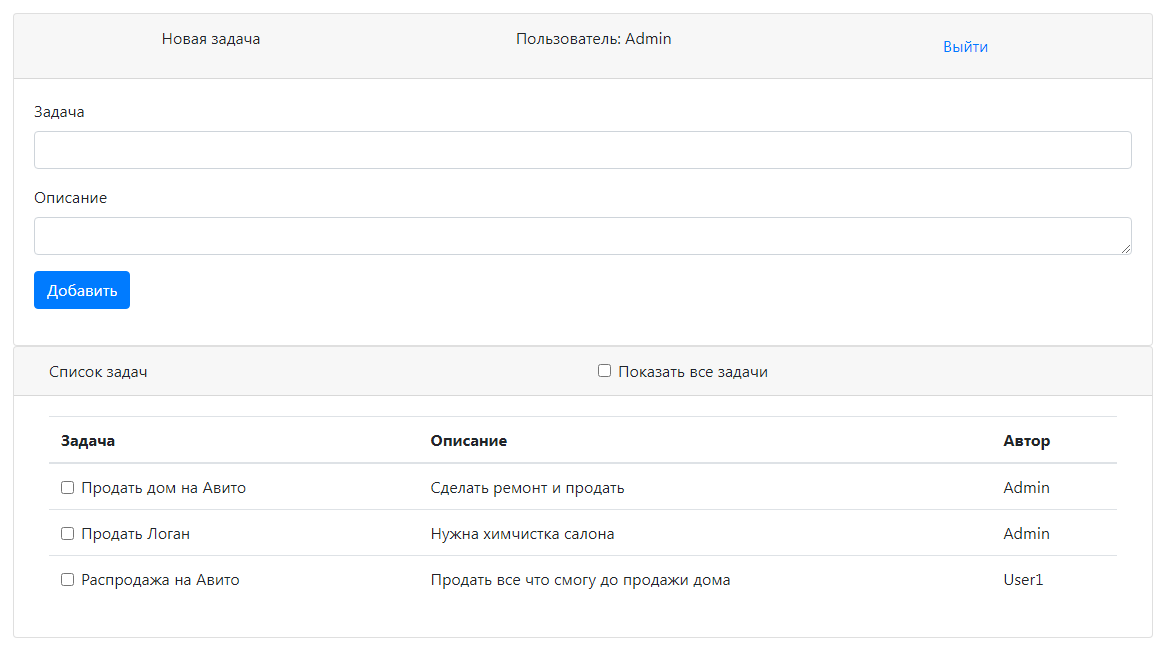
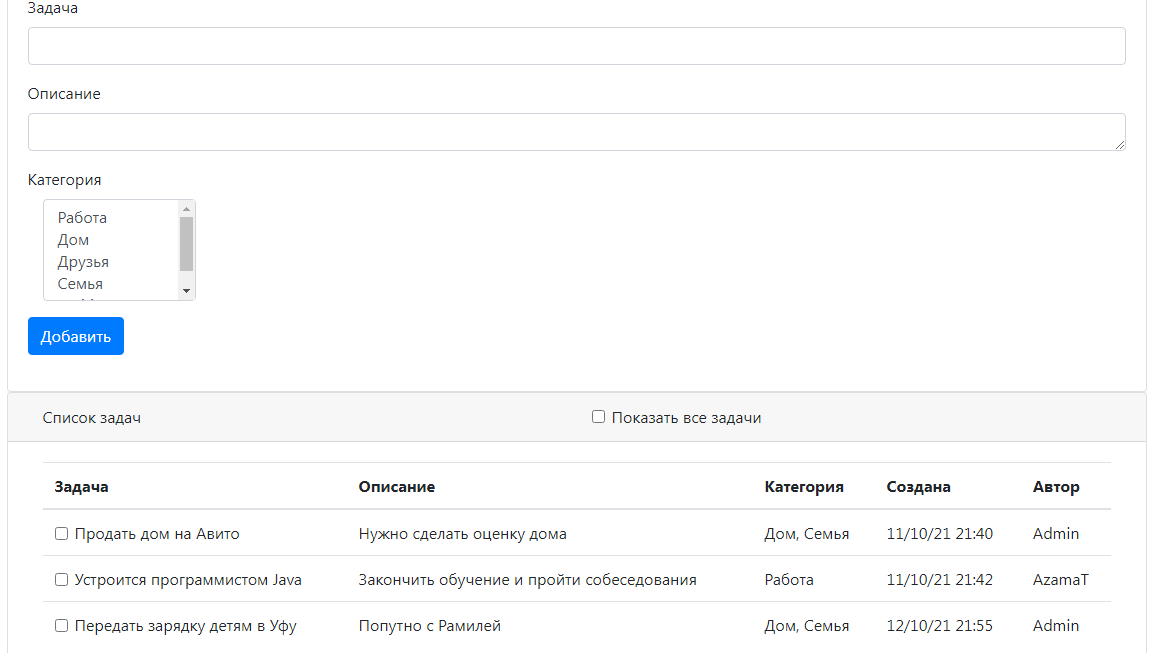
4. Категории в TODO List [#331991 #214812]

diff --git a/src/main/webapp/js/addTask.js b/src/main/webapp/js/addTask.js
@@ -6,7 +6,6 @@ function addTask() {
             data: {
                 task: $('#task').val(),
                 description: $('#description').val(),
-                userEmail: $('#userEmail').val(),
                 'categories[]': $('#categories').val()
             }
         }).done(function (data) {

diff --git a/src/main/java/ru/job4j/todo/servlet/AddTaskServlet.java b/src/main/java/ru/job4j/todo/servlet/AddTaskServlet.java
@@ -1,5 +1,6 @@
 package ru.job4j.todo.servlet;
 
+import ru.job4j.todo.model.User;
 import ru.job4j.todo.service.TodoService;
 
 import javax.servlet.*;
@@ -12,8 +13,8 @@ public class AddTaskServlet extends HttpServlet {
     protected void doPost(HttpServletRequest req, HttpServletResponse resp) throws ServletException, IOException {
         String task = req.getParameter("task");
         String description = req.getParameter("description");
-        String userEmail = req.getParameter("userEmail");
+        User user = (User) req.getSession().getAttribute("user");
         String[] categories = req.getParameterValues("categories[]");
-        TodoService.instOf().addTask(task, description, userEmail, categories);
+        TodoService.instOf().addTask(task, description, user, categories);
     }
 }

diff --git a/src/main/java/ru/job4j/todo/service/TodoService.java b/src/main/java/ru/job4j/todo/service/TodoService.java
@@ -17,12 +17,10 @@ public class TodoService {
         return TodoService.Lazy.INST;
     }
 
-    public void addTask(String task, String description, String email, String[] categories) {
-        User user = HbmStore.instOf().findUserByEmail(email);
+    public void addTask(String task, String description, User user, String[] categories) {
         Item item = Item.of(task, description, user);
-        List<Category> allCategories = findAllCategories();
         for (String id : categories) {
-            item.addCategory(allCategories.get(Integer.parseInt(id) - 1));
+            item.addCategory(HbmStore.instOf().findCategoryById(id));
         }
         HbmStore.instOf().addTask(item);
     }

diff --git a/src/main/java/ru/job4j/todo/persistence/HbmStore.java b/src/main/java/ru/job4j/todo/persistence/HbmStore.java
@@ -66,6 +66,17 @@ public class HbmStore implements Store, AutoCloseable {
     }
 
     @Override
+    public Category findCategoryById(String id) {
+        return this.tx(
+                session -> {
+                    String hql = "from ru.job4j.todo.model.Category where id = :id";
+                    Query hqlQuery = session.createQuery(hql);
+                    hqlQuery.setParameter("id", Integer.parseInt(id));
+                    return (Category) hqlQuery.uniqueResult();
+                });
+    }
+
+    @Override
     public User addUser(User user) {
         this.tx(
                 session -> session.save(user)

diff --git a/src/main/java/ru/job4j/todo/persistence/Store.java b/src/main/java/ru/job4j/todo/persistence/Store.java
@@ -16,6 +16,8 @@ public interface Store extends AutoCloseable {
 
     List<Category> findAllCategories();
 
+    Category findCategoryById(String id);
+
     User addUser(User user);
 
     User findUserByEmail(String email);
